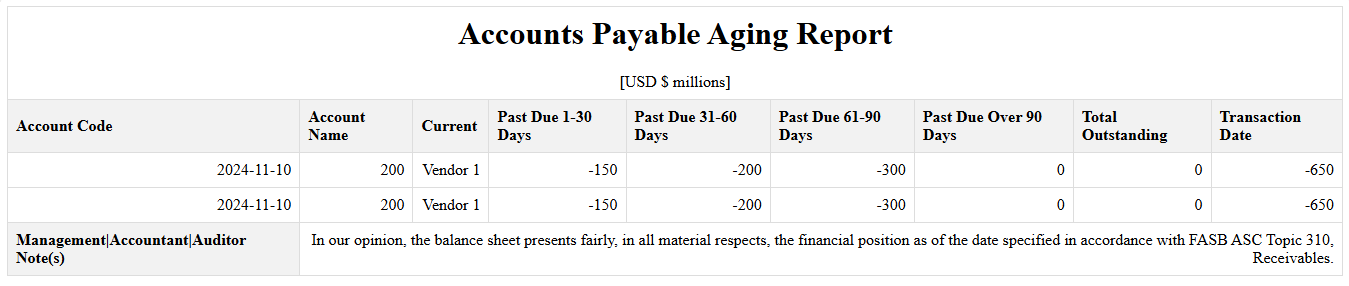
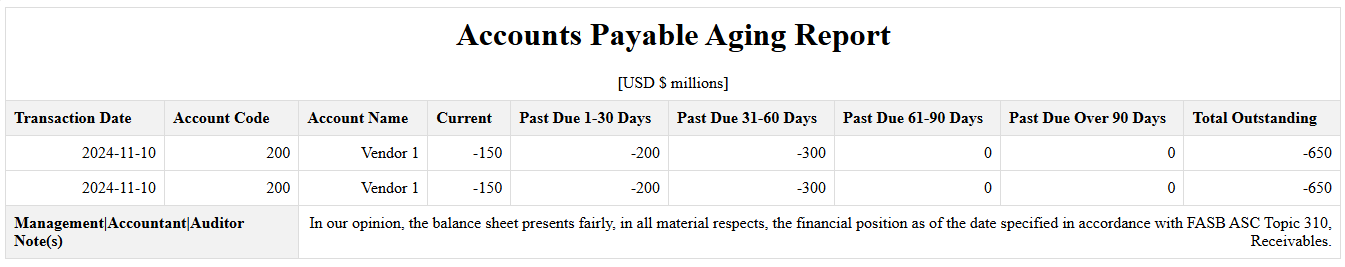
added account-payables-aging

diff --git a/packages/bestbooks-reports/test/accountpayablesaging.test.js b/packages/bestbooks-reports/test/accountpayablesaging.test.js
@@ -3,15 +3,35 @@ const {
     init, 
     AccountPayablesAging,
 } = require("../index");
+const {
+    AccountsPayable
+} = require('@pingleware/bestbooks-core');
 const path = require('path');
 
 const delay = ms => new Promise(resolve => setTimeout(resolve, ms));
 
 describe("Create formatted Account Payables Aging Report", function(){
-    let report;
+    let report, vendorOne, vendorTwo, data, formattedData, xml;
+    let due15DaysAgo, due45DaysAgo, due75DaysAgo, due95DaysAgo, due135DaysAgo;
 
     before(async() => {
         report = new AccountPayablesAging();
+
+        vendorOne = new AccountsPayable("Vendor 1");
+        vendorTwo = new AccountsPayable("Vendor 2");
+
+        due15DaysAgo = new Date();
+        due45DaysAgo = new Date();
+        due75DaysAgo = new Date();
+        due95DaysAgo = new Date();
+        due135DaysAgo = new Date();
+
+        due15DaysAgo.setDate(due15DaysAgo.getDate() - 15);
+        due45DaysAgo.setDate(due15DaysAgo.getDate() - 45);
+        due75DaysAgo.setDate(due15DaysAgo.getDate() - 75);
+        due95DaysAgo.setDate(due15DaysAgo.getDate() - 95);
+        due135DaysAgo.setDate(due135DaysAgo.getDate() - 135);
+
         init();
     })
 
@@ -32,4 +52,141 @@ describe("Create formatted Account Payables Aging Report", function(){
         assert.ok(report instanceof AccountPayablesAging);
     }) 
 
+    it('should add an aged debit 100 days ago for vendor one',async() => {
+        const [ledger_id,journal_id] = await vendorOne.addDebit(new Date().toISOString().split("T")[0],"",100,due15DaysAgo.toISOString().split("T")[0]);
+        assert.equal(ledger_id,1);
+        assert.equal(journal_id,1);
+    })
+
+    it('should add an aged debit 50 days ago for vendor one',async() => {
+        const [ledger_id,journal_id] = await vendorOne.addDebit(new Date().toISOString().split("T")[0],"",50,due45DaysAgo.toISOString().split("T")[0]);
+        assert.equal(ledger_id,2);
+        assert.equal(journal_id,2);
+    });
+
+    it('should add an aged debit 200 days ago for vendor one',async() => {
+        const [ledger_id,journal_id] = await vendorOne.addDebit(new Date().toISOString().split("T")[0],"",200,due75DaysAgo.toISOString().split("T")[0]);
+        assert.equal(ledger_id,3);
+        assert.equal(journal_id,3);
+    });
+
+    it('should add an aged debit 300 days ago for vendor one',async() => {
+        const [ledger_id,journal_id] = await vendorOne.addDebit(new Date().toISOString().split("T")[0],"",300,due95DaysAgo.toISOString().split("T")[0]);
+        assert.equal(ledger_id,4);
+        assert.equal(journal_id,4);
+    });
+
+    it('should add an aged debit 150 days ago for vendor two',async() => {
+        const [ledger_id,journal_id] = await vendorTwo.addDebit(new Date().toISOString().split("T")[0],"",150,due135DaysAgo.toISOString().split("T")[0]);
+        assert.equal(ledger_id,5);
+        assert.equal(journal_id,5);
+    });
+
+    it("should get account payables aging data",async() => {
+        data = await report.retrieveReportDataSync();
+        const expected = [
+            {
+              account_code: 200,
+              account_name: 'Vendor 1',
+              current: -150,
+              past_due_1_30: -200,
+              past_due_31_60: -300,
+              past_due_61_90: 0,
+              past_due_over_90: 0,
+              total_outstanding: -650,
+              txdate: '2024-11-10'
+            },
+            {
+              account_code: 201,
+              account_name: 'Vendor 2',
+              current: 0,
+              past_due_1_30: 0,
+              past_due_31_60: 0,
+              past_due_61_90: 0,
+              past_due_over_90: -150,
+              total_outstanding: -150,
+              txdate: '2024-11-10'
+            }
+        ];
+        assert.deepStrictEqual(data,expected);
+    })
+
+    it("should format data into array",async() => {
+        const notes = `In our opinion, the balance sheet presents fairly, in all material respects, the financial position as of the date specified in accordance with FASB ASC Topic 310, Receivables.`;
+
+        formattedData = await report.formatArray(data,notes);
+        const expected = {
+            lineItems: [
+              {
+                account_code: 200,
+                account_name: 'Vendor 1',
+                current: -150,
+                past_due_1_30: -200,
+                past_due_31_60: -300,
+                past_due_61_90: 0,
+                past_due_over_90: 0,
+                total_outstanding: -650,
+                txdate: '2024-11-10'
+              },
+              {
+                account_code: 201,
+                account_name: 'Vendor 2',
+                current: 0,
+                past_due_1_30: 0,
+                past_due_31_60: 0,
+                past_due_61_90: 0,
+                past_due_over_90: -150,
+                total_outstanding: -150,
+                txdate: '2024-11-10'
+              }
+            ],
+            notes: 'In our opinion, the balance sheet presents fairly, in all material respects, the financial position as of the date specified in accordance with FASB ASC Topic 310, Receivables.'
+        };
+        assert.deepStrictEqual(formattedData,expected);
+    })
+
+    it("should format array into xml",async () => {
+        xml = await report.formatXml(formattedData);
+        const expected = `<?xml version='1.0'?>
+<accountPayablesAging>
+    <lineItems>
+        <account_code>200</account_code>
+        <account_name>Vendor 1</account_name>
+        <current>-150</current>
+        <past_due_1_30>-200</past_due_1_30>
+        <past_due_31_60>-300</past_due_31_60>
+        <past_due_61_90>0</past_due_61_90>
+        <past_due_over_90>0</past_due_over_90>
+        <total_outstanding>-650</total_outstanding>
+        <txdate>2024-11-10</txdate>
+    </lineItems>
+    <lineItems>
+        <account_code>201</account_code>
+        <account_name>Vendor 2</account_name>
+        <current>0</current>
+        <past_due_1_30>0</past_due_1_30>
+        <past_due_31_60>0</past_due_31_60>
+        <past_due_61_90>0</past_due_61_90>
+        <past_due_over_90>-150</past_due_over_90>
+        <total_outstanding>-150</total_outstanding>
+        <txdate>2024-11-10</txdate>
+    </lineItems>
+    <notes>In our opinion, the balance sheet presents fairly, in all material respects, the financial position as of the date specified in accordance with FASB ASC Topic 310, Receivables.</notes>
+</accountPayablesAging>`;
+        assert.deepStrictEqual(xml,expected);
+    })
+
+    it("should save the xml to a file",async() => {
+        const filePath = await report.saveReportSync("accountPayablesAging",xml,"xml");
+        assert.strictEqual(path.basename(filePath),"accountPayablesAging.xml");
+    })
+
+    it("should format the balance sheet report",async() => {
+        html = await report.formatHtml(xml);
+    })
+
+    it("should save the html to a file",async function(){
+        const filePath = await report.saveReportSync("accountPayablesAging",html,"html");
+        assert.strictEqual(path.basename(filePath),"accountPayablesAging.html");
+    })
 })

diff --git a/packages/bestbooks-reports/account-payables-aging.js b/packages/bestbooks-reports/account-payables-aging.js
@@ -46,7 +46,16 @@ class AccountPayablesAging extends BaseReport {
     }
 
     async formatArray(data,notes) {
+        var _data = {
+            lineItems: [],
+            notes: notes
+        };
 
+        data.forEach(function(lineItem){
+            _data.lineItems.push(lineItem);
+        })
+
+        return _data;
     }
 
     retrieveReportData(startDate,endDate,callback) {
